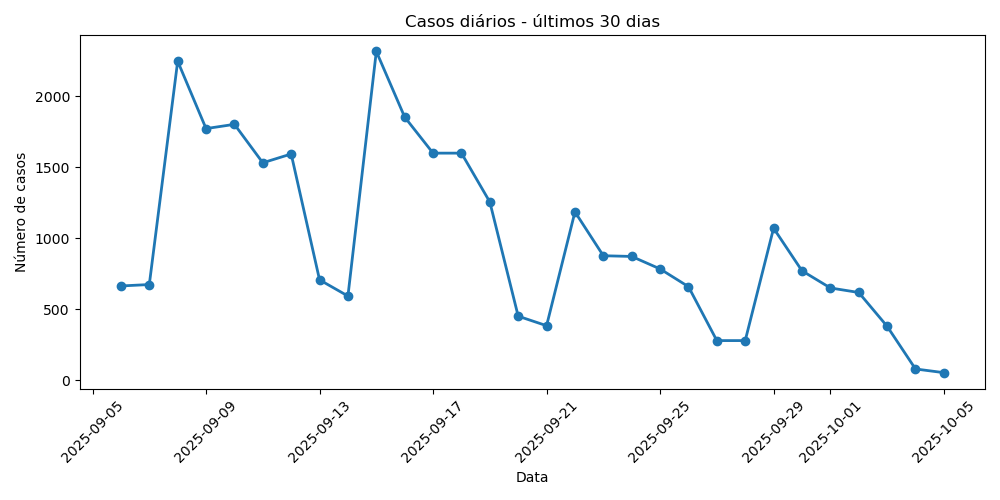
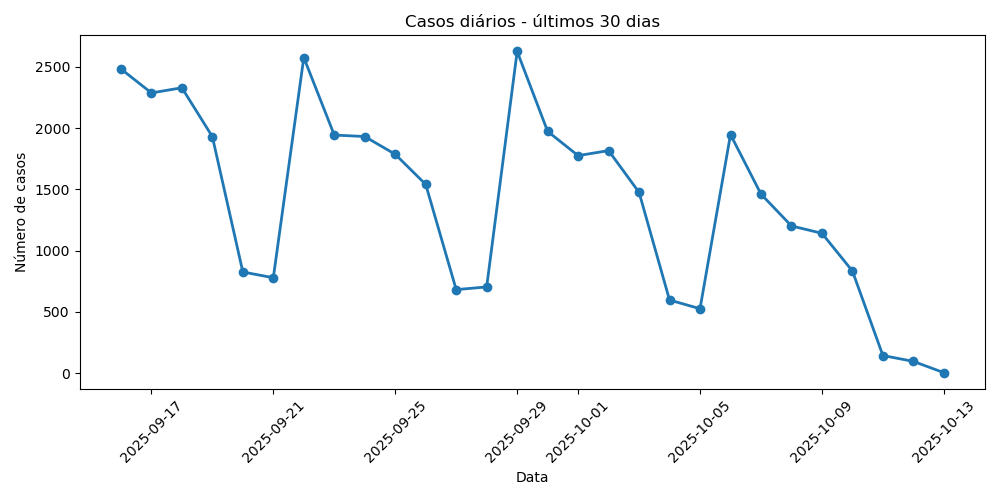
feito

diff --git a/src/etl.py b/src/etl.py
@@ -14,7 +14,7 @@ class ETL:
 
         df_salvo= pd.read_parquet("data/processed/srag_clean.parquet", engine="pyarrow")
         df_salvo["DT_NOTIFIC"] = pd.to_datetime(df_salvo["DT_NOTIFIC"], errors="coerce")
-        if (df_salvo["DT_NOTIFIC"].dt.strftime("%Y-%m-%d") == (self.today - timedelta(days=1)).strftime("%Y-%m-%d")).any():
+        if (df_salvo["DT_NOTIFIC"].dt.strftime("%Y-%m-%d") == (self.today - timedelta(days=7)).strftime("%Y-%m-%d")).any():
             return df_salvo
         else:
             base_url = "https://s3.sa-east-1.amazonaws.com/ckan.saude.gov.br/SRAG/2025/INFLUD25-{date}.csv"
